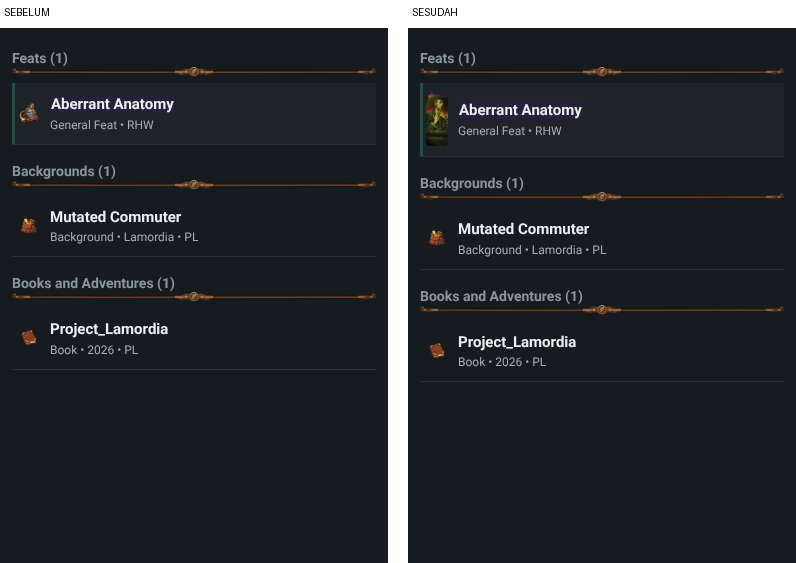
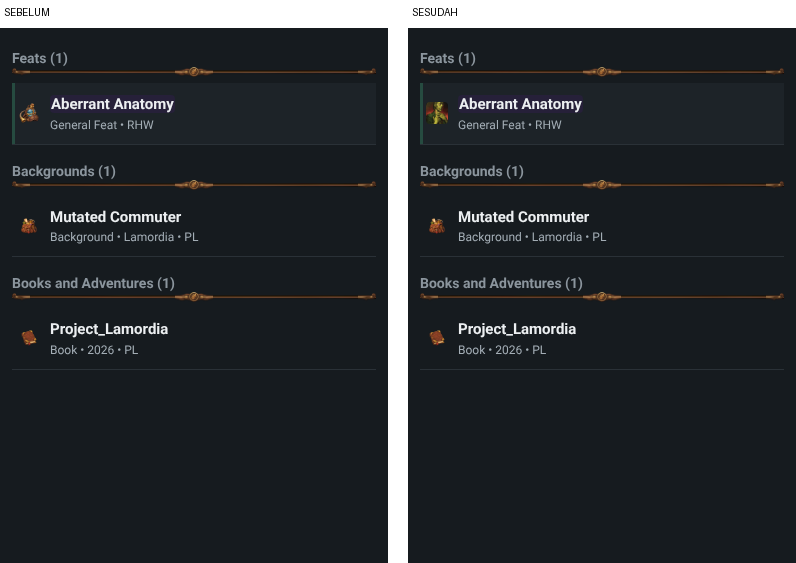
Art dedupe report: final screenshots and deck check
Claude-Session: https://claude.ai/code/session_01BB9QMtm2pFmfLA12Cqppif

diff --git a/reports/art-dedupe.md b/reports/art-dedupe.md
@@ -64,7 +64,7 @@ Tidak dihapus:
 
 Catatan screenshot 6: pada run "sebelum" lembar detail Soldier masih menutup bagian atas inventaris (urutan klik skrip). Baris yang terlihat (Shortbow sampai Longsword) cukup untuk dibandingkan.
 
-Screenshot 4 sempat menunjukkan baris feat lebih tinggi 12 px karena gambar 5etools tidak persegi. Sudah diperbaiki dengan `.lib-ri .art-ic.art-5e{height:auto;aspect-ratio:1}` dan diperiksa ulang pada run terakhir.
+Run pertama sesudah hapus menunjukkan baris feat lebih tinggi 12 px karena gambar 5etools tidak persegi. Sudah diperbaiki dengan `.lib-ri .art-ic.art-5e{height:auto;aspect-ratio:1}`. Screenshot 4 diambil dari run terakhir (sesudah merge main).
 
 ## Perubahan kode dan data
 
@@ -85,7 +85,7 @@ Kunci localStorage dan bentuk data tersimpan tidak berubah.
 
 | Bukti | Hasil |
 |---|---|
-| Jejak jaringan Playwright 390x844 dan 1250x850: sheet Yudhi (chip, kondisi, detail, inventaris), Library satu entri per kategori (item, spell, feat, bestiary, species, background, deck, recipe, language, facility, gear, rule), builder semua langkah | 0 permintaan gambar gagal atau 404. Satu-satunya 404 adalah `/api/me` (server statis lokal tanpa API, juga ada di main). Permintaan `img/mon` turun dari 1 ke 0, `data/img` naik dari 11 ke 29. |
+| Jejak jaringan Playwright 390x844 dan 1250x850: sheet Yudhi (chip, kondisi, detail, inventaris), Library satu entri per kategori (item, spell, feat, bestiary, species, background, deck, recipe, language, facility, gear, rule), builder semua langkah | 0 permintaan gambar gagal atau 404 (run sebelum, sesudah, dan sesudah merge main). Deck: pencarian Library tidak memunculkan baris deck, jadi dicek lewat `__libHtml('deck', ...)` yang dipasang ke halaman: deck tidak punya gambar di detail Library dan tidak ada permintaan gagal. Recipe Abyssal Chicken Egg Omelet: gambar 5etools termuat. Satu-satunya 404 adalah `/api/me` (server statis lokal tanpa API, juga ada di main). Permintaan `img/mon` turun dari 1 ke 0, `data/img` naik dari 11 ke 29. |
 | Tiga skenario wajib (`tests/scenarios.py`) | 24 cek lulus. `tests/compare_storage.py` sebelum vs sesudah: 6 file, 0 beda. |
 | `tests/solid_snapshot.py` | 2997 build, total f65fce1937133458 (sama). |
 | golden_builds, fx_engine, solid_contract, solid_data_contract, solid_ui_contract, csp_check, names_lint, version_label, e2e_fx_toggle, q_lib, xlinks | lulus semua |
